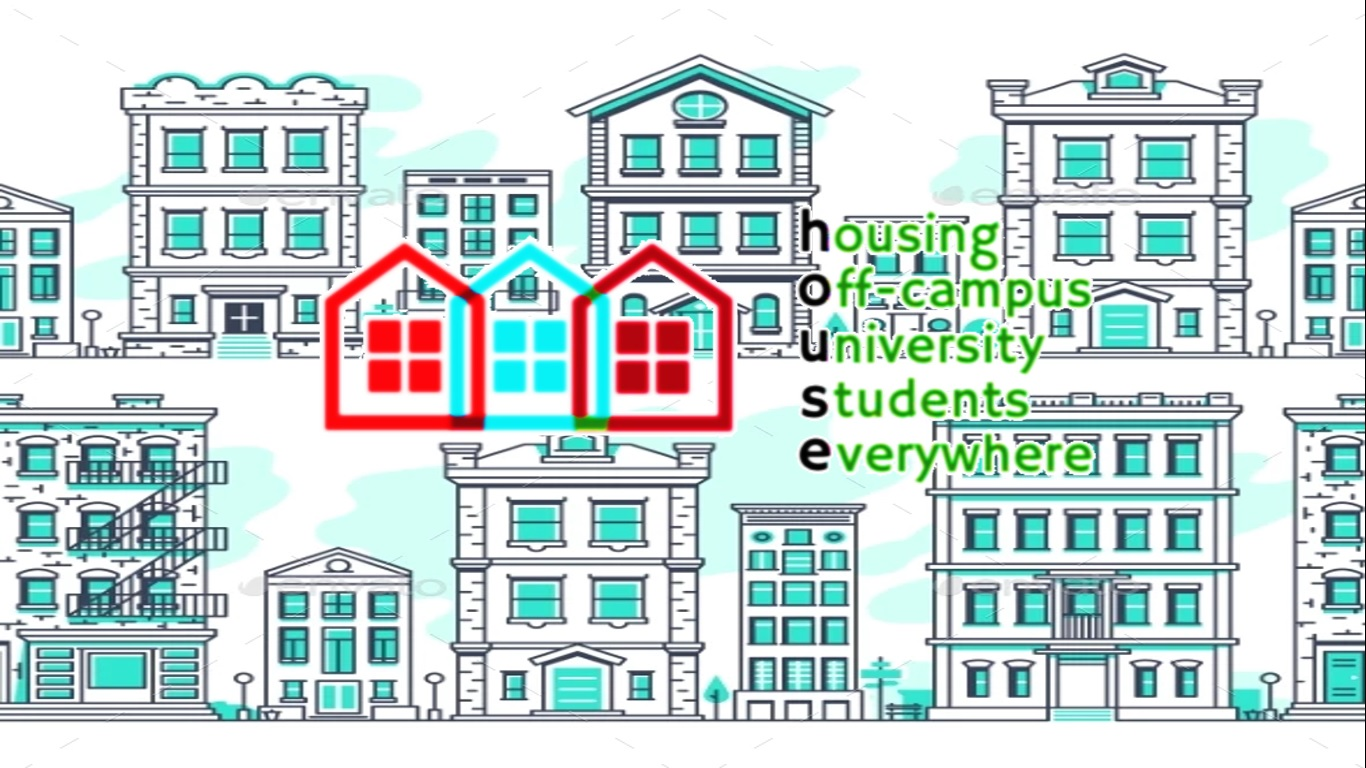
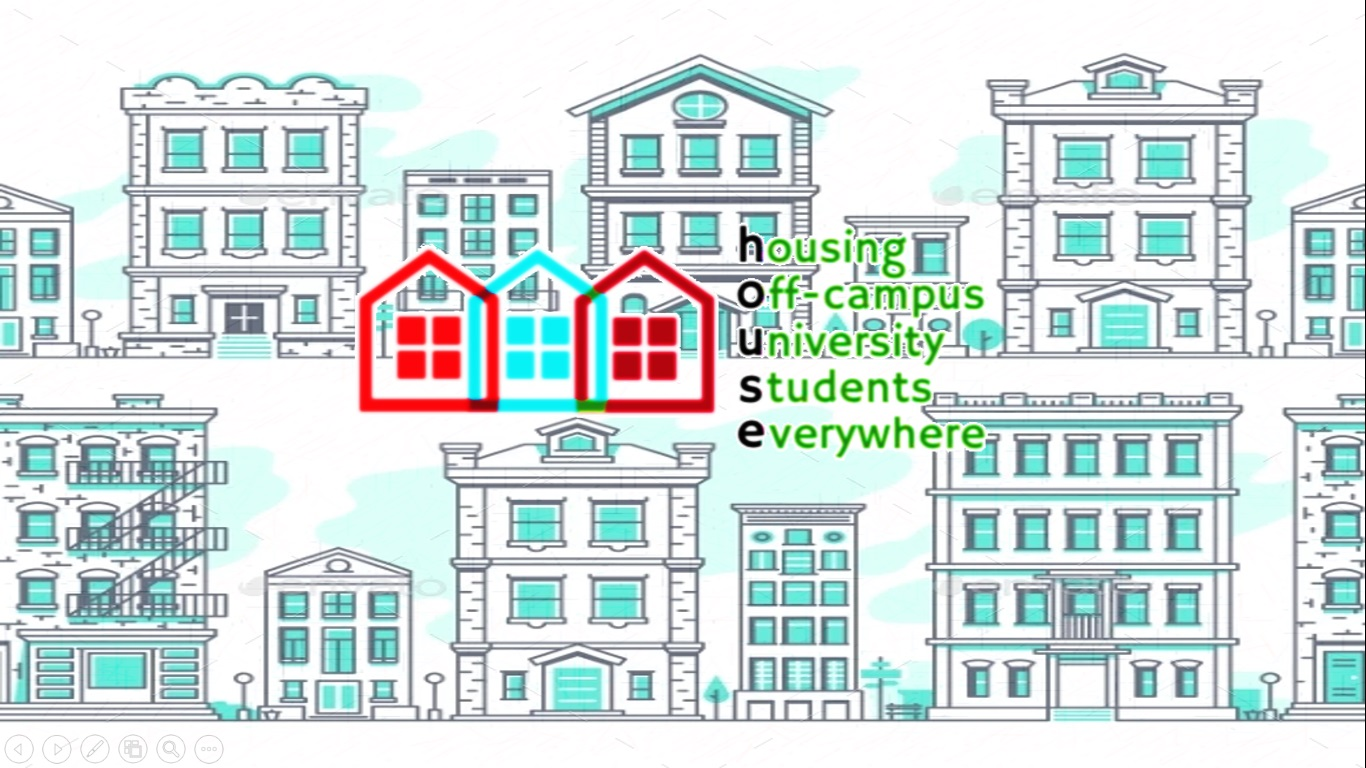
last trial

diff --git a/react-firebase/src/components/Home/HomeView.js b/react-firebase/src/components/Home/HomeView.js
@@ -19,7 +19,7 @@ class HomeView extends Component {
                 <NavigationBar/>
 
                 <div className="backgroundImageContainer">
-                    <img src="https://github.com/a1rao/HOUSE/blob/master/react-firebase/src/components/Home/Background_Bigger.jpg?raw=true" alt="a beautiful picture" className="backgroundImage"/>
+                    <img src="https://github.com/a1rao/HOUSE/blob/master/react-firebase/src/components/Home/HomepageBackground.jpg?raw=true" alt="a beautiful picture" className="backgroundImage"/>
                     {/*<img src="HomepageBackground.jpg" alt="https://graphicriver.img.customer.envatousercontent.com/files/246062449/preview.jpg?auto=format&q=80&fit=crop&crop=top&max-h=8000&max-w=590&s=25ef6f5f977ada803a462772880e04c6" alt="Pic blurry" className="backgroundImage" />*/}
                 </div>
 
